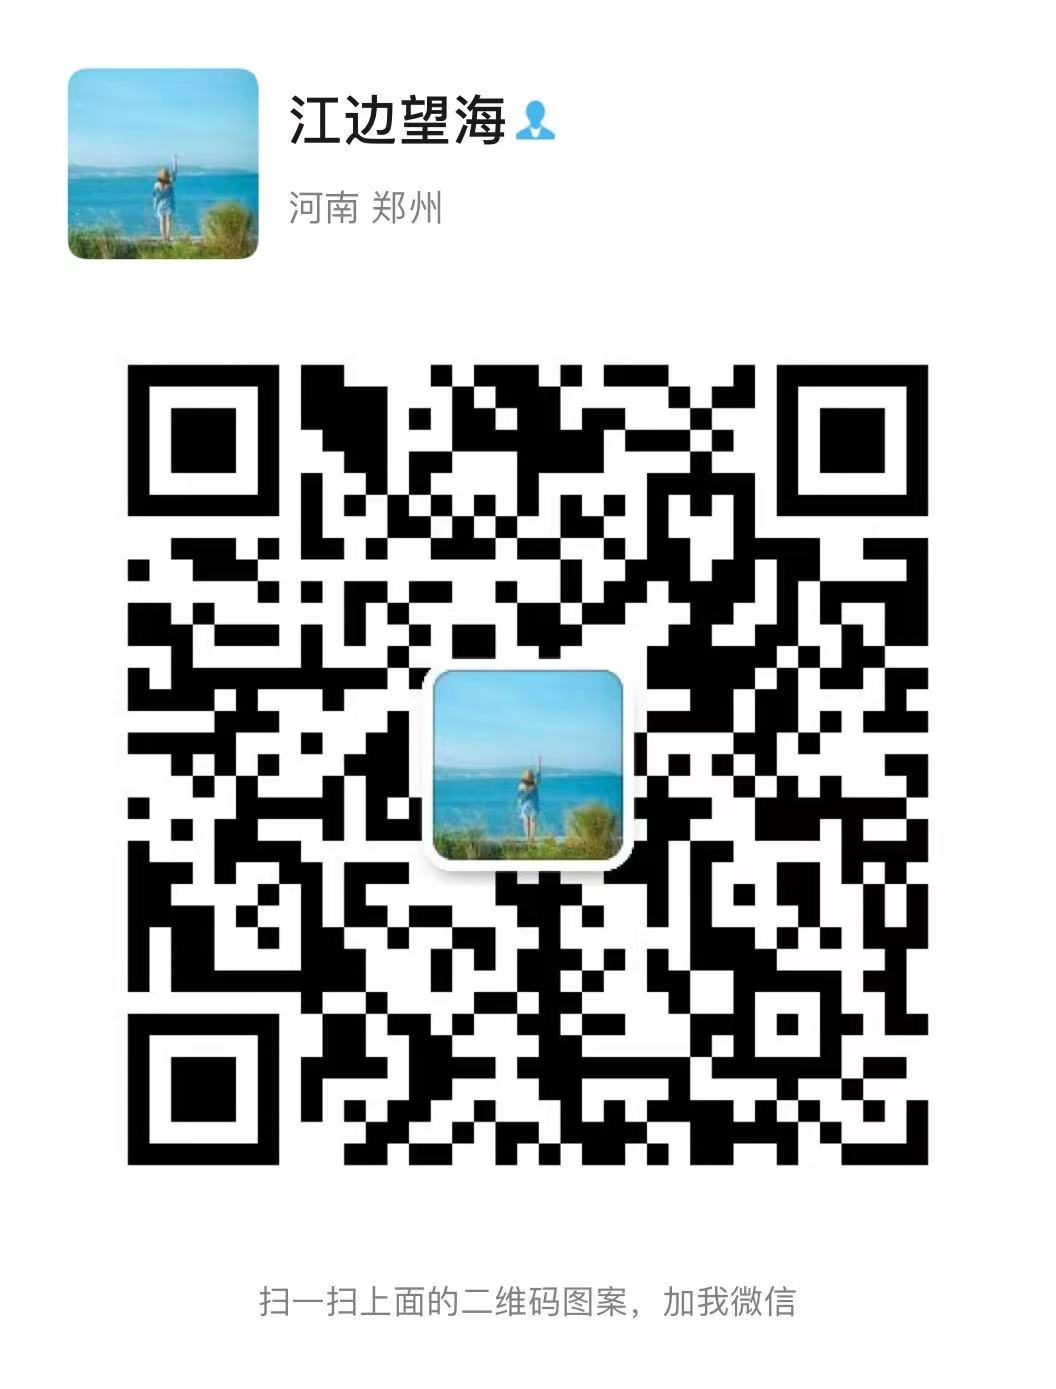
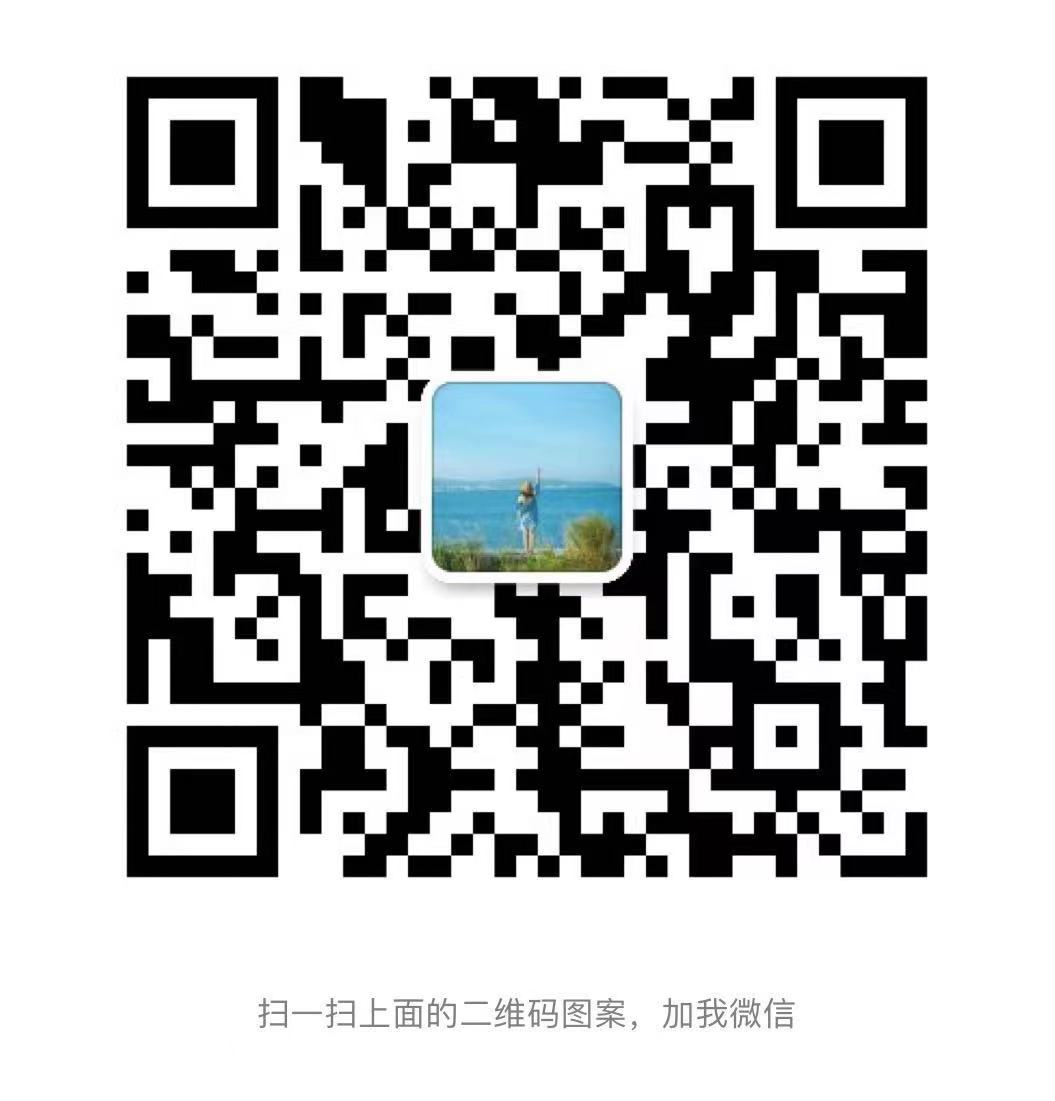
Site updated: 2021-07-08 18:05:40

diff --git a/install-v8js-in-centos7/index.html b/install-v8js-in-centos7/index.html
@@ -194,7 +194,7 @@
     <span>进行许可。 转载时请注明原文链接。</span>
 </div>
 <div class="share" style="width: 100%;">
-  <img src="/img/qr.jpg" alt="Running Geek" style="margin: auto; display: block;"/>
+  <img src="/img/qr.jpg" alt="江边望海" style="margin: auto; display: block; width:300px;"/>
 
   <div style="margin: auto; text-align: center; font-size: 0.8em; color: grey;">老铁们，扫码加微信</div>
   
